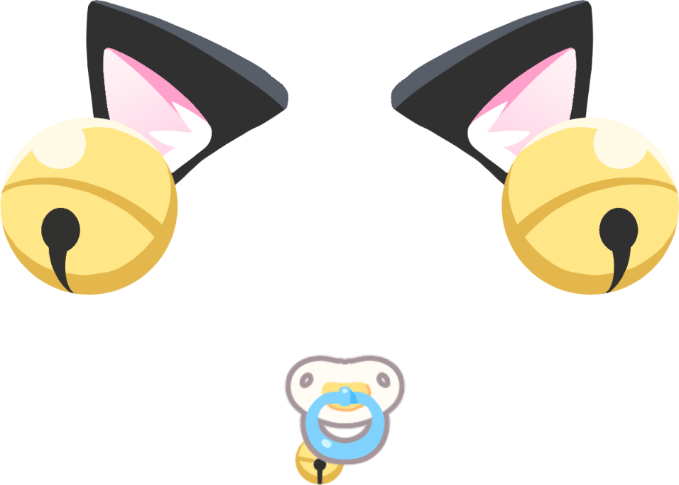
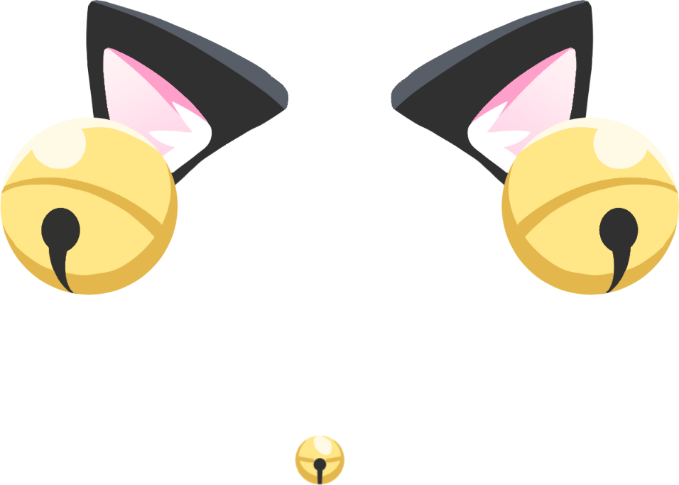
update v1787692758

Changed region(s): [[0.4021, 0.7113, 0.6186, 0.9588]]

diff --git a/mascot.py b/mascot.py
@@ -18234,11 +18234,11 @@ class Mascot:
             h9 = float(sz9[1]) * self.s
         except Exception:
             return
-        # **주변을 번갈아** — 왼쪽·오른쪽·위를 돌아가며, 한 번에 두세 개를
-        # 박자를 어긋내 뿅뿅 (요청: 작게 여러 개).
+        # **주변을 번갈아** — 왼쪽·오른쪽·위를 돌아가며 **한 번에 하나씩**
+        # (요청 — 여러 개를 한꺼번에 내면 겹쳐 지저분하다).
         side9 = getattr(self, "_cat_heart_side", 0)
         self._cat_heart_side = (side9 + 1) % 3
-        for j9 in range(random.randint(2, 3)):
+        for j9 in range(1):
             if side9 == 0:              # 왼쪽 곁
                 x = bx9 - w9 * random.uniform(0.05, 0.28)
                 y = by9 + yo + h9 * random.uniform(0.1, 0.7)
@@ -18248,8 +18248,6 @@ class Mascot:
             else:                       # 머리 위
                 x = bx9 + w9 * random.uniform(0.2, 0.8)
                 y = by9 + yo - h9 * random.uniform(0.0, 0.25)
-            # 자리·속도·수명을 제각각 주면 같은 박자에 태어나도 흩어져
-            # '번갈아 뿅뿅'으로 보인다.
             life = random.randint(24, 38)
             self.notes.append([x, y, random.uniform(-0.35, 0.35),
                                random.uniform(0.7, 1.15),
